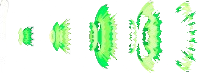
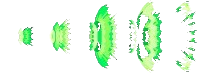
Trying to fix position where vlaster hits wall

diff --git a/lib/entities/mermaid.rb b/lib/entities/mermaid.rb
@@ -158,7 +158,7 @@ class Mermaid
 
   def ammo_hits_wall
     @ammo_inventory.each do |ammo|
-      if ammo_valid_move(ammo.x - 37, ammo.y - 10) == false
+      if ammo_valid_move(ammo.x - 37, ammo.y - 10, ammo.direction) == false
         ammo.explode unless ammo.exploding? || ammo.dead?
       end
     end
@@ -194,9 +194,22 @@ class Mermaid
     @maze.is_path?(grid_x, grid_y)
   end
 
-  def ammo_valid_move(new_x, new_y)
-    grid_x = (new_x + 90 * 0.40) / TILE_SIZE
-    grid_y = (new_y + 50 / 2 * 0.40) / TILE_SIZE
+  def ammo_valid_move(new_x, new_y, direction)
+    case direction
+    when :left
+      grid_x = (new_x + 60 * 0.40) / TILE_SIZE
+      grid_y = (new_y + 50 / 2 * 0.40) / TILE_SIZE
+    when :right
+      grid_x = (new_x + 120 * 0.40) / TILE_SIZE
+      grid_y = (new_y + 50 / 2 * 0.40) / TILE_SIZE
+    when :up
+      grid_x = (new_x + 120 * 0.40) / TILE_SIZE
+      grid_y = (new_y + 50 / 2 * 0.40) / TILE_SIZE
+    when :down
+      grid_x = (new_x + 120 * 0.40) / TILE_SIZE
+      grid_y = (new_y + 100 / 2 * 0.40) / TILE_SIZE
+    end
+    # grid_x = (new_x + 90 * 0.40) / TILE_SIZE
     @maze.is_path?(grid_x, grid_y)
   end
 

diff --git a/lib/entities/ammo.rb b/lib/entities/ammo.rb
@@ -2,7 +2,7 @@ class Ammo
   AMMO_SHEET_WIDTH  = 591
   AMMO_SHEET_HEIGHT = 60
 
-  attr_reader :x, :y, :width, :height, :blaster_frames, :current_frame, :ammo_scale
+  attr_reader :x, :y, :width, :height, :blaster_frames, :current_frame, :ammo_scale, :direction
 
   def initialize x, y, direction
     @x                 = x
@@ -12,7 +12,7 @@ class Ammo
     @direction         = direction
     @speed             = 5
     @blaster_frames    = Gosu::Image.load_tiles("assets/images/ammo/blaster_1.png", 98, 60, retro: true)
-    @blaster_color     = rand(1..3)
+    @blaster_color     = rand(1..5)
     @impact_frames     = Gosu::Image.load_tiles("assets/images/ammo/explosion_#{@blaster_color}.png", 40, 73, retro: true)
     @current_frame     = 0
     @frame_delay       = 100

diff --git a/lib/game_window.rb b/lib/game_window.rb
@@ -42,10 +42,12 @@ class GameWindow
 
   def draw
     # draw_rect 0,0, Config::WINDOW_WIDTH, Config::WINDOW_HEIGHT, @background_color
+
     @background_image.draw 0, 0, 0, 0.20, 0.20
     @maze.draw(Config::CELL_SIZE)
     @font.draw("Score: #{@score}", 10, 10, 0, 1, 1)
-
+    overlay_color = Gosu::Color.rgba(0, 0, 255, 128)
+    Gosu.draw_rect(0, 0, 800, 600, overlay_color, z = 0)
     @mermaid.draw
     @mermaid.draw_ammo
     @bubble_rainbows.each(&:draw)
